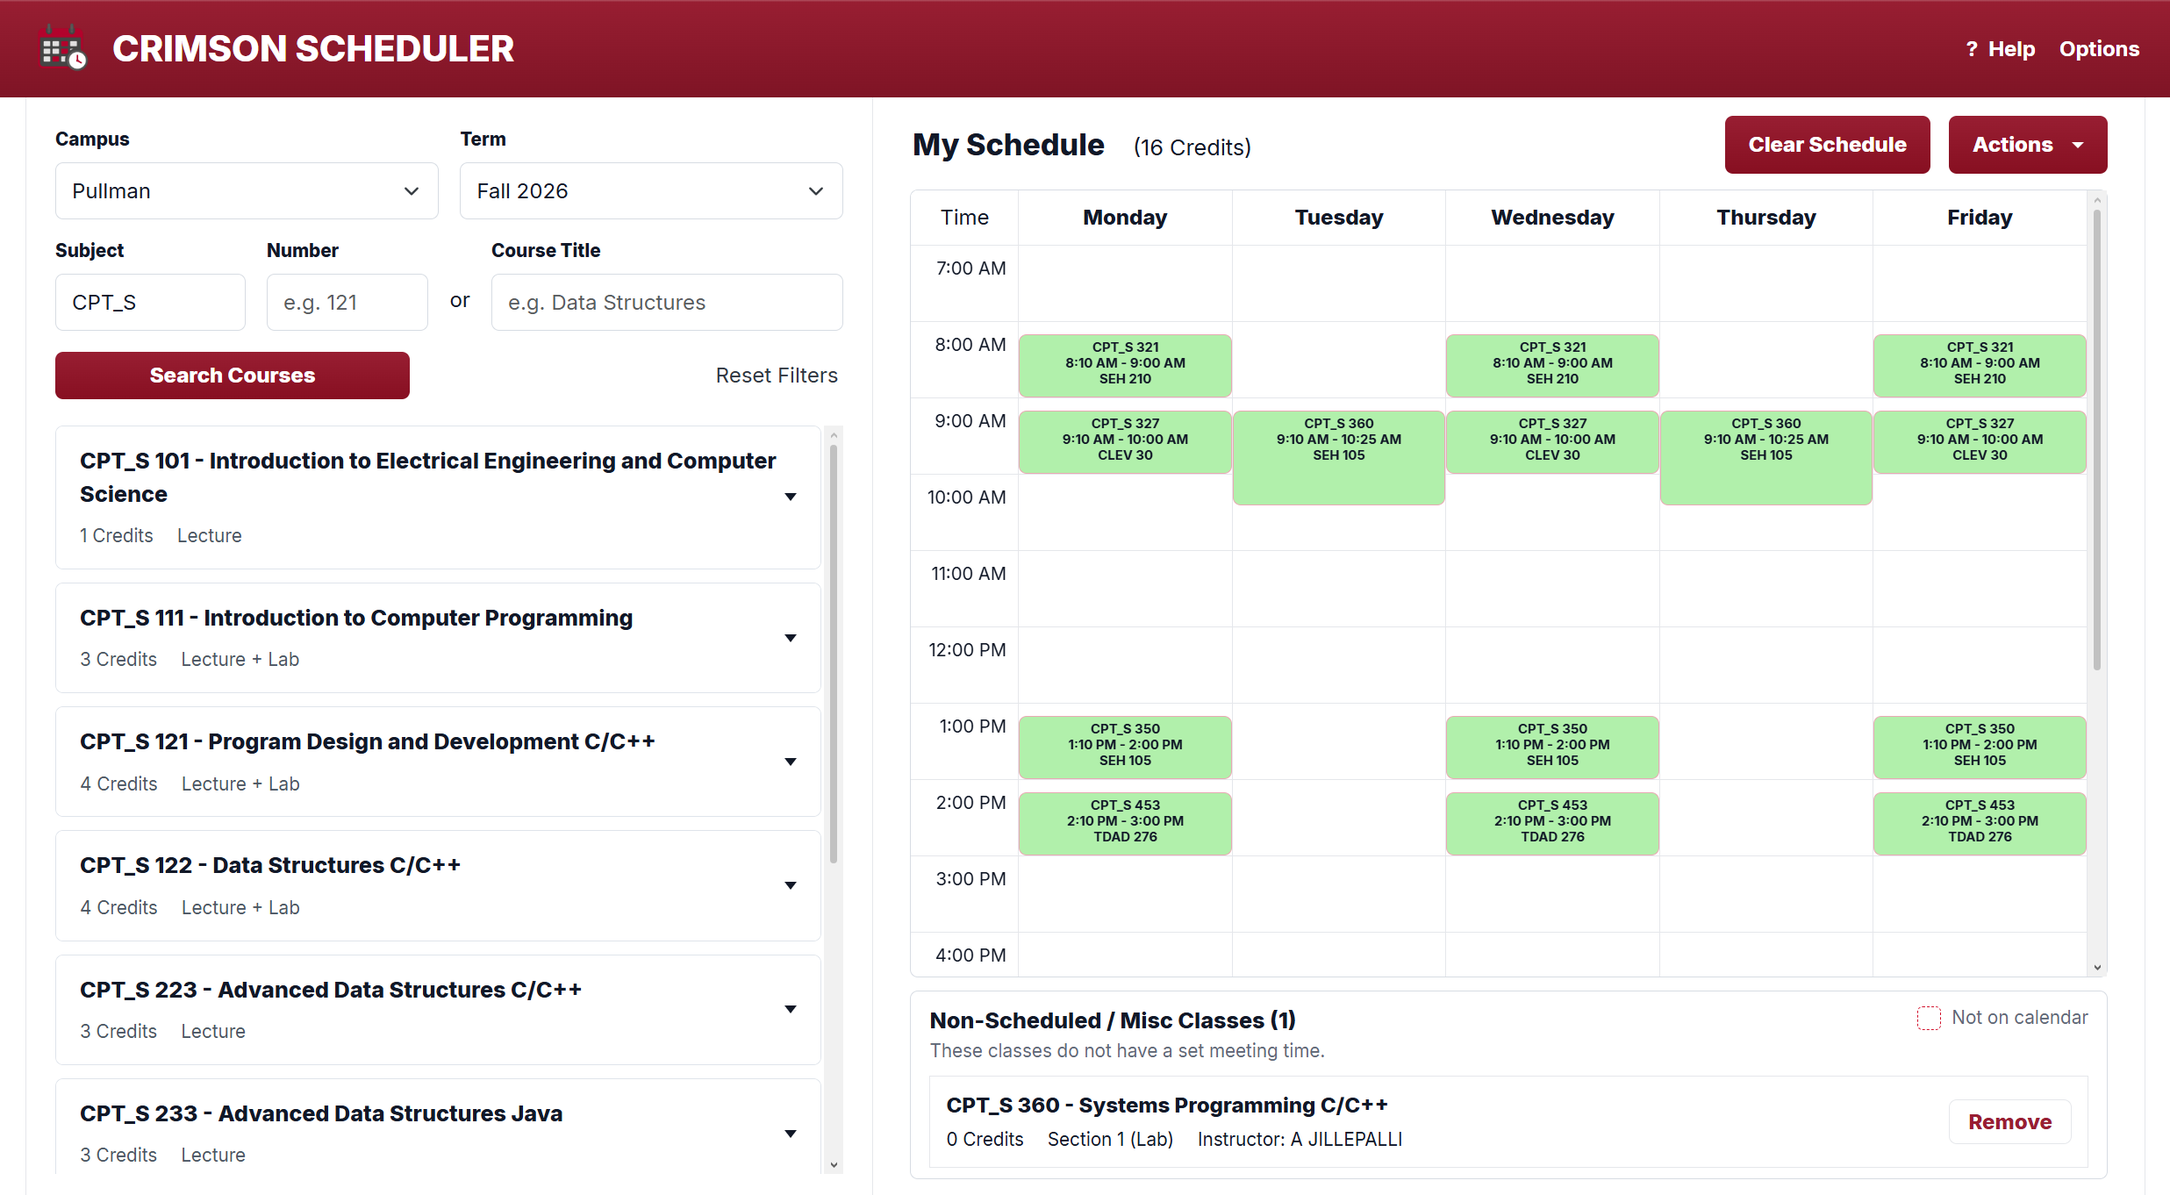
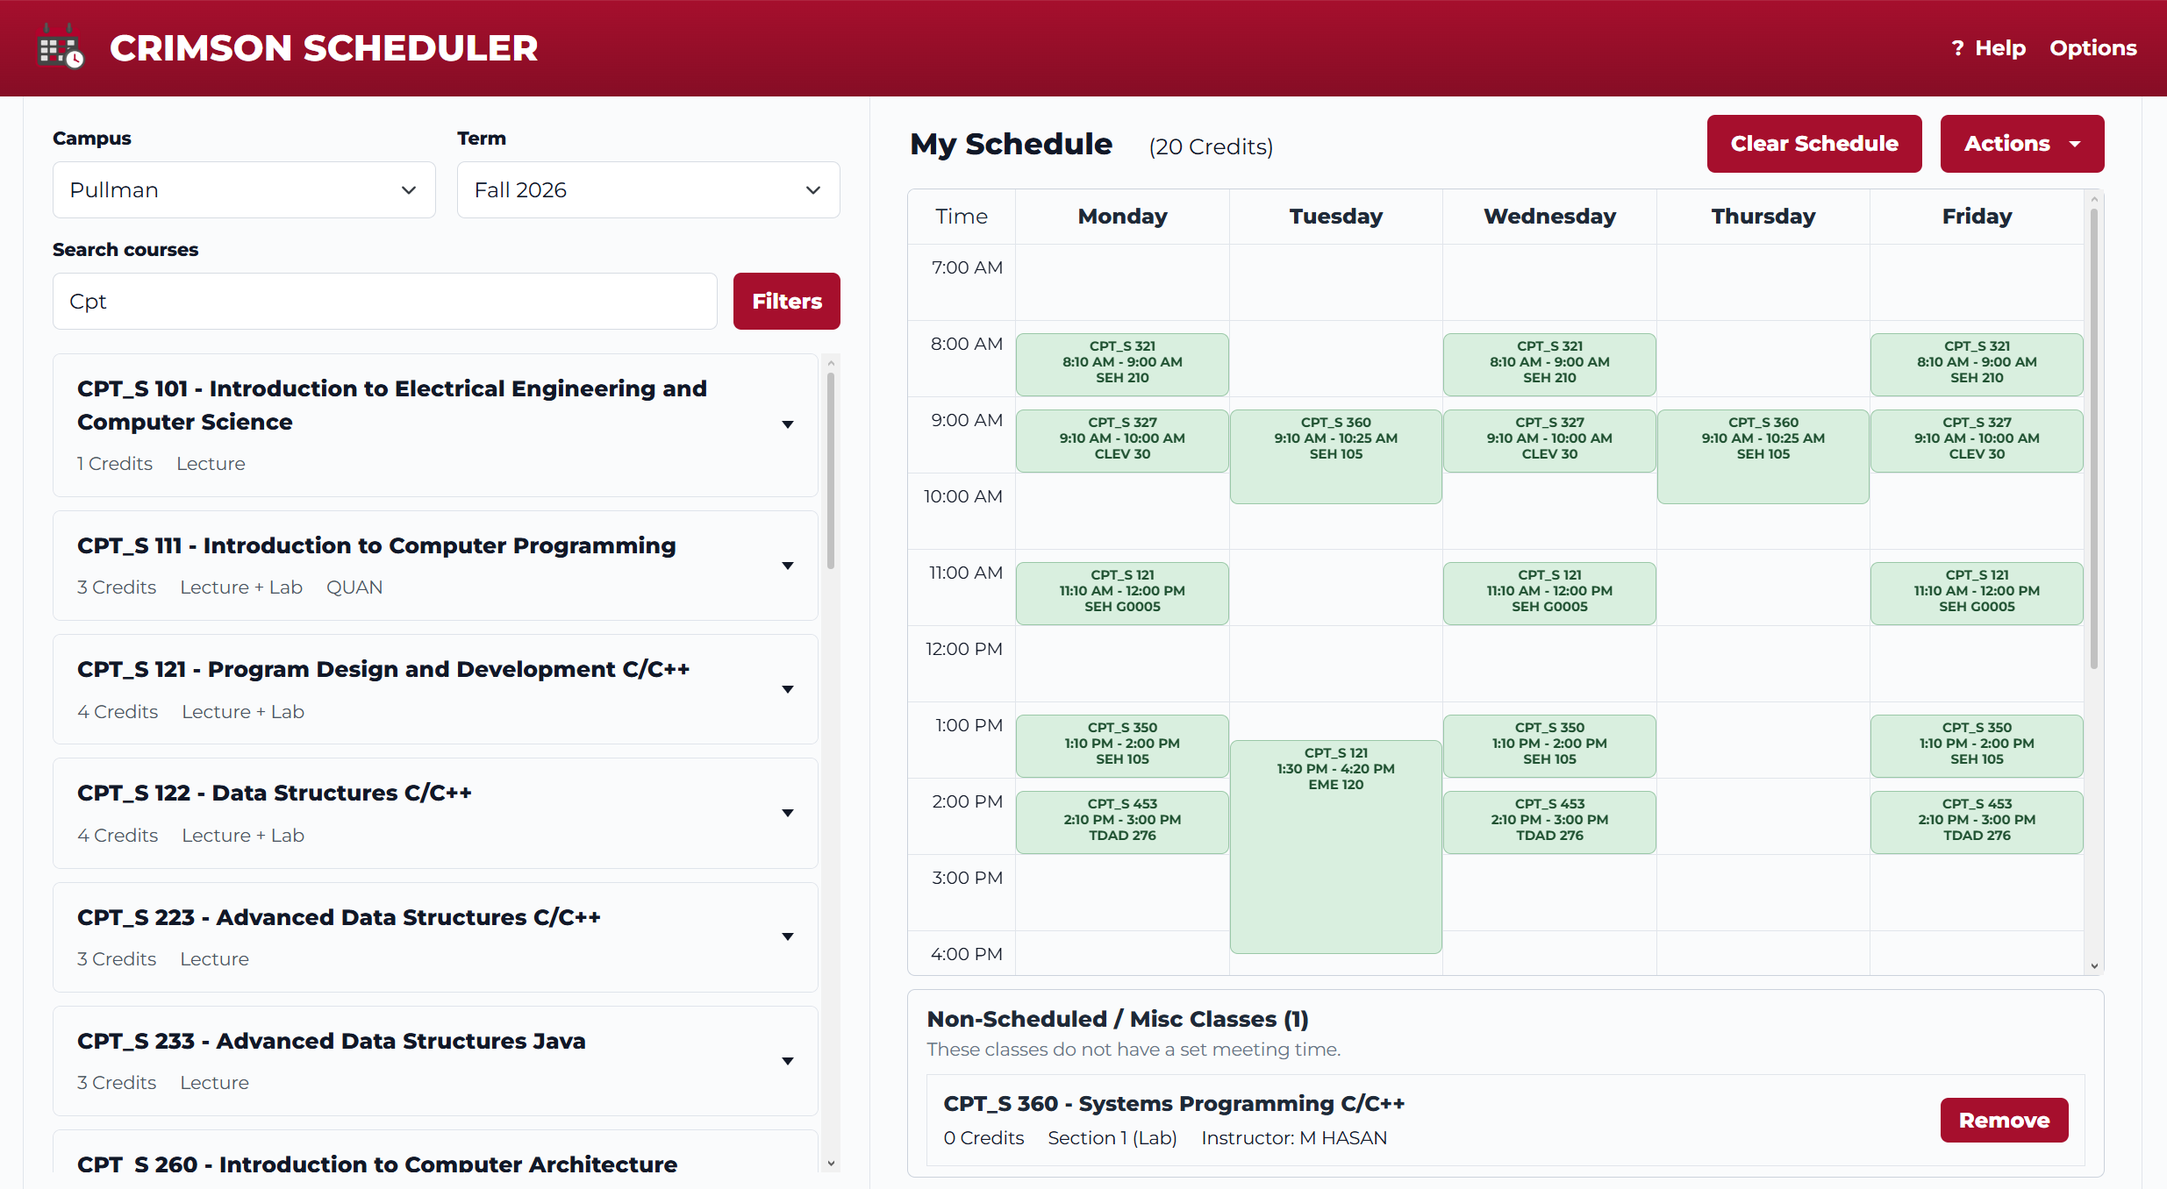
Update README.md

diff --git a/README.md b/README.md
@@ -1,40 +1,26 @@
 # Crimson Scheduler
 
-Crimson Scheduler is a WSU-focused schedule builder that helps students search course offerings and assemble a weekly class schedule. It retrieves publicly accessible course schedule data from WSU schedule API endpoints, stores course and section records in a Django database, and provides a responsive desktop/mobile calendar UI.
+Crimson Scheduler is a WSU-focused schedule builder that helps students search course offerings and create a weekly class schedule. It retrieves publicly accessible course schedule data from WSU's course API endpoints and caches them for users to query.
 
-### Why did I make this?
-
-I've found it to be somewhat annoying to plan out classes using the current scheduling systems WSU has in place. I've also seen that frustration echoed across other people on online forums as well. As such, I decided to make this webapp to make the process of planning out a semester of classes MUCH easier.
-
-##### What about other sites like Coursicle?
-
-Crimson Scheduler occupies a similar space to services such as Coursicle, but is specifically designed with WSU students in mind. The goal is to provide a straightforward, WSU-focused experience without requiring students to manually enter course information when it isn't available through a third-party service.
-
-Simply put, you can think of Crimson Scheduler as Coursicle just for us WSU students :\)
+Users can choose a campus and term, search the published course catalog, and select sections to assemble their course schedule.
 
 ![Crimson Scheduler desktop view](readme-images/DesktopView-CrimsonScheduler.png)
 
-## Current Features
+## Features
 
-- Search WSU courses by campus, term, subject, course number, or course title.
-- View course sections with credits, meeting days, times, location, instructor, and enrollment counts.
-- Choose lecture sections and required lab sections together when a course includes a lab.
-- Build a visual weekly schedule from selected sections.
-- Rename the current schedule.
-- Preview sections on the calendar before adding them.
-- Detect overlapping course times and highlight conflicts.
-- Track total selected credits.
-- Separate arranged, TBA, online, or otherwise unscheduled courses into a misc list.
-- Remove individual courses or clear the full schedule.
-- Export the schedule as a PNG image.
-- Generate and import Crimson Scheduler share codes.
-- Persist selected sections in a browser cookie for 30 days.
-- Persist display preferences and schedule name in local storage.
-- Customize the display with 24-hour time, hidden weekends, instructor labels, and section labels.
-- Use a mobile layout with separate Search and Schedule tabs.
-- View an in-app help modal with desktop and mobile guidance.
-- Access Privacy Policy, Terms of Use, and Contact pages from the footer.
-- Apply Redis-backed rate limiting to search and schedule API endpoints.
+- Search courses by subject, number, course code, or title
+- Load the available WSU campus/term catalog dynamically and cache a term's course data in the browser for the current visit.
+- Filter results by open seats, delivery type (in person, online, or arranged), and UCORE designation.
+- Review section number, meeting time, location, instructor, enrollment, and UCORE information before adding a class.
+- Choose lecture and lab sections together when a course requires a lab; removing either removes the paired selection.
+- Preview a section on the calendar while hovering or focusing it in the search results.
+- Render classes in a weekly calendar, flag overlapping meeting times, and provide direct removal controls for conflicts.
+- Keep arranged, TBA, online, and other unscheduled sections in a separate list instead of dropping them from the schedule.
+- Track total credits, rename the schedule, and clear the schedule when needed.
+- Export a calendar image (PNG) or a recurring `.ics` calendar file for compatible calendar apps.
+- Create and import compact share codes. Imported schedules are rebuilt from the latest published course data, so unavailable sections are reported instead of silently added.
+- Persist the schedule, name, display settings, and theme locally in the browser; no user account required.
+- Offer responsive desktop and mobile layouts, dark mode, 24-hour time, optional weekends, instructor/section labels, accessible filter controls, and in-app guidance.
 
 ## Mobile UI
 
@@ -42,87 +28,75 @@ Simply put, you can think of Crimson Scheduler as Coursicle just for us WSU stud
 | --- | --- |
 | ![Crimson Scheduler mobile schedule view](readme-images/MobileView-CrimsonScheduler1.png) | ![Crimson Scheduler mobile search view](readme-images/MobileView-CrimsonScheduler2.png) |
 
-## Tech Stack
+## How it works
 
-- Python
-- Django 5.2
-- PostgreSQL to cache course information
-- Redis for cache/rate-limiting support
-- WSU schedule API endpoints for data collection
-- HTMX for course search partial updates
-- Bootstrap for UI components
-- html2canvas for PNG schedule export
-- JavaScript for schedule rendering, conflict highlighting, share codes, cookies, local storage, export, and mobile navigation
+The deployed application is a Django UI backed by a versioned, static course-data API hosted from the repository's `crimson-data` GitHub Pages branch. The browser fetches a catalog first, then retrieves only the selected campus/term JSON file. Search and filtering run client-side, which keeps normal course browsing off the Django database and avoids repeated requests to WSU while a user types.
 
-## Project Structure
+Course data originates from WSU's public schedule endpoints. The scheduled GitHub Actions workflow regenerates the static catalog hourly and publishes it to the data branch. Section availability and other catalog details can therefore lag behind the official registration systems.
+
+The repository still includes Django models and session-backed schedule endpoints from the earlier server-backed implementation. They are retained and covered by tests, but the primary schedule-builder flow is browser-first and uses the static catalog.
+
+## Tech stack
+
+- Python 3.12 and Django 5.2
+- Vanilla JavaScript modules bundled with Vite
+- Bootstrap, HTMX, and html2canvas for the interface and image export
+- `ical-generator` for `.ics` exports
+- Static JSON course catalog published through GitHub Pages
+- Redis token-bucket rate limiting for Django's legacy schedule API endpoints
+- PostgreSQL for Django's optional/legacy data models
+
+## Project structure
 
 ```text
 .
-|-- dataCollection/              # WSU API data loading and transformation helpers
-|   |-- classHandler/            # Plain Python data containers for imported WSU data
+|-- .github/workflows/           # CI, CodeQL, and hourly course-data publication
+|-- dataCollection/              # WSU API importer and JSON catalog generator
 |   `-- dataHandler/
-|       |-- data.py              # Current WSU API collection path
-|       |-- storage.py           # Upserts collected data into Django models
-|       `-- scraper.py           # Legacy scraper code; currently unused
-|-- readme-images/               # README screenshots
-|-- web/                         # Django project
+|       |-- data.py              # Requests/transforms WSU schedule data
+|       |-- generate_json.py     # Builds the static API under _generated_site/
+|       `-- json_storage.py      # Serializes catalog and campus/term JSON files
+|-- readme-images/               # README screenshots (maintained manually)
+|-- tests/                       # Vitest unit tests for browser logic
+|-- web/
 |   |-- classes/
-|   |   |-- models.py            # Campus, semester, course, section, schedule models
-|   |   |-- rate_limit.py        # Redis token-bucket rate limiting
-|   |   |-- redis_scripts/       # Lua script used by the rate limiter
-|   |   |-- static/              # CSS, JS, icons, and help images
-|   |   |-- templates/           # Schedule builder, legal pages, contact page
+|   |   |-- static/js/           # Course API client and schedule UI modules
+|   |   |-- static/css/          # Responsive and theme styles
+|   |   |-- templates/classes/   # Builder, help, legal, and contact pages
 |   |   |-- urls.py              # App routes
-|   |   `-- views.py             # Search, schedule, legal, and API views
+|   |   `-- views.py             # Page views and catalog bootstrap
 |   |-- manage.py
-|   `-- web/                     # Django settings and root URL config
-|-- LICENSE.md
-|-- main.py                      # Imports WSU schedule data into the configured DB
-|-- requirements.txt             # Python dependencies for local setup
+|   `-- web/                     # Django settings and root URL configuration
+|-- package.json                 # Vite, ESLint, and Vitest commands
+|-- pyproject.toml               # Python project and Ruff configuration
+|-- requirements*.txt            # Runtime and development Python dependencies
+|-- vercel.json                  # Production build command
 `-- README.md
 ```
 
-## Local Setup
+## Local development
 
-Create and activate a virtual environment:
+### Prerequisites
+
+- Python 3.12
+- Node.js 20 or newer (Node 22 is used in CI)
+
+Create and activate a virtual environment, then install Python dependencies:
 
 ```powershell
 python -m venv venv
 .\venv\Scripts\Activate.ps1
+python -m pip install -r requirements-dev.txt
 ```
 
-Install dependencies:
+Install JavaScript dependencies and build the browser bundle:
 
 ```powershell
-pip install -r requirements.txt
+npm ci
+npm run build
 ```
 
-Create a `.env` file in the repo root. For PostgreSQL, either provide a single `DATABASE_URL`:
-
-```env
-DJANGO_SECRET_KEY=change-this-for-local-dev
-DJANGO_DEBUG=True
-DJANGO_ALLOWED_HOSTS=localhost,127.0.0.1
-DATABASE_URL=postgresql://user:password@localhost:5432/crimson_scheduler
-REDIS_URL=redis://127.0.0.1:6379/0
-```
-
-Or provide individual database settings:
-
-```env
-DJANGO_SECRET_KEY=change-this-for-local-dev
-DJANGO_DEBUG=True
-DJANGO_ALLOWED_HOSTS=localhost,127.0.0.1
-DB_ENGINE=django.db.backends.postgresql
-DB_NAME=crimson_scheduler
-DB_USER=your_database_user
-DB_PWD=your_database_password
-DB_HOST=localhost
-DB_PORT=5432
-REDIS_URL=redis://127.0.0.1:6379/0
-```
-
-For SQLite development:
+Create a `.env` file in the repository root. A SQLite configuration is enough for local development because the primary UI reads the published static catalog rather than a local course database:
 
 ```env
 DJANGO_SECRET_KEY=change-this-for-local-dev
@@ -130,102 +104,84 @@ DJANGO_DEBUG=True
 DJANGO_ALLOWED_HOSTS=localhost,127.0.0.1
 DB_ENGINE=django.db.backends.sqlite3
 DB_NAME=db.sqlite3
-DB_USER=
-DB_PWD=
-DB_HOST=
-DB_PORT=
-REDIS_URL=redis://127.0.0.1:6379/0
 ```
 
-Run migrations:
+Apply migrations and start Django:
 
 ```powershell
 cd web
 python manage.py migrate
-```
-
-Load WSU schedule data:
-
-```powershell
-cd ..
-python main.py
-```
-
-Start the development server:
-
-```powershell
-cd web
 python manage.py runserver
 ```
 
-Then open `http://127.0.0.1:8000/`.
+Open `http://127.0.0.1:8000/`. The page will request the current catalog from the published API, so an internet connection is required for course search.
 
-## Configuration Notes
+### Optional services and database configuration
 
-- `DJANGO_SECRET_KEY` controls Django's secret key.
-- `DJANGO_DEBUG` defaults to `True`.
-- `DJANGO_ALLOWED_HOSTS` is a comma-separated host list.
-- `DATABASE_URL` takes priority over the individual `DB_*` settings.
-- `REDIS_URL` defaults to `redis://127.0.0.1:6379/0`.
-- Rate limiting can be tuned with `RATE_LIMIT_MAX_TOKENS`, `RATE_LIMIT_REFILL_RATE`, `RATE_LIMIT_TTL_SECONDS`, `RATE_LIMIT_TRUST_X_FORWARDED_FOR`, and `RATE_LIMIT_FAIL_OPEN`.
-- With the default `RATE_LIMIT_FAIL_OPEN=True`, Redis outages should not block normal local development.
+Redis is only needed when exercising the rate-limited legacy JSON endpoints. Its defaults are `redis://127.0.0.1:6379/0` and fail-open behavior, which means a local Redis outage does not block normal development.
 
-## Data Collection
+For PostgreSQL, set `DATABASE_URL` or the individual `DB_ENGINE`, `DB_NAME`, `DB_USER`, `DB_PWD`, `DB_HOST`, and `DB_PORT` variables. `DATABASE_URL` takes precedence. Set `REDIS_URL` and, if needed, tune `RATE_LIMIT_MAX_TOKENS`, `RATE_LIMIT_REFILL_RATE`, `RATE_LIMIT_TTL_SECONDS`, `RATE_LIMIT_TRUST_X_FORWARDED_FOR`, and `RATE_LIMIT_FAIL_OPEN`.
 
-The original scraper approach has been replaced with direct WSU API calls. `main.py` initializes Django, requests campus, term, subject, course, and section data from WSU schedule endpoints, and upserts the results into the configured database.
+### Refreshing the static course API locally
 
-The importer currently stores:
+The production catalog is generated by GitHub Actions. To generate the same static API locally:
 
-- Campuses
-- Semesters
-- Subjects/topics
-- Courses
-- Sections
-- Lecture/lab metadata
-- Enrollment totals
-- Meeting days, times, locations, and instructors
+```powershell
+python -m dataCollection.dataHandler.generate_json
+```
 
-WSU schedule data is cached locally in the configured database so normal user searches do not require repeated requests to WSU endpoints. The importer can be run separately whenever the cached dataset needs to be refreshed.
+This writes `_generated_site/api/v1/catalog.json` plus one JSON file per campus/term. The script requests WSU's public schedule API and may take time depending on the number of active terms and subjects. It does not update the local Django database.
 
-## How Schedule Data Is Stored
+The older database importer remains available as `python main.py`; it initializes Django and imports the WSU data into the configured database. It is useful for maintaining the legacy endpoints, not required for the browser-based builder.
 
-The visible schedule builder currently stores selected section data in the user's browser with a 30-day cookie. Display options and the schedule name are stored in local storage.
+## Quality checks
 
-Share codes store the schedule name and selected section IDs. When importing a share code, the app calls `/api/sections-by-ids/` to rebuild fresh section data from the database. The app also includes Django models and endpoints for session-backed schedules, but the primary UI flow is currently browser-first.
+```powershell
+npm run lint
+npm test
+python -m ruff check .
+python -m ruff format --check .
+cd web
+python manage.py check
+python manage.py test
+```
 
-## User-Facing Pages
+GitHub Actions runs Python and JavaScript linting, Django checks/tests, Vitest, CodeQL analysis, and the hourly data-publication workflow.
 
-- `/` - schedule builder
-- `/privacy-policy/` - privacy policy
-- `/terms-of-use/` - terms of use
-- `/contact/` - contact and bug-reporting guidance
-- `/admin/` - Django admin
+## Routes
 
-## Future Work
+| Route | Purpose |
+| --- | --- |
+| `/` | Schedule builder |
+| `/privacy-policy/` | Privacy policy |
+| `/terms-of-service/` | Terms of service |
+| `/contact/` | Contact and feedback guidance |
+| `/admin/` | Django administration |
+| `/api/schedule-data/` | Legacy session schedule data |
+| `/api/sections-by-ids/` | Legacy section lookup endpoint |
 
-The core scheduling experience is usable. Future work is focused on deployment, richer course metadata, and stretch goals based on user feedback.
+## Privacy and data notes
 
-- [ ] Deploy Crimson Scheduler to a public domain for broader access.
-- [x] Improve export options beyond JSON.
-- [x] Add schedule share/import codes.
-- [ ] Explore professor ratings by linking instructor names to their RMP profiles where available, or by developing a user-submitted rating system.
-- [ ] Allow the deployed app's cached course data to update frequently enough for useful seat-count visibility.
-- [ ] Add prerequisite or course-description metadata if reliable WSU data becomes available, or construct a dependency graph that helps visualize how courses relate to each other.
-- [ ] Implement daily path generation to visualize a potential walking route between classes based on their locations.
+Schedules, display preferences, schedule names, and theme selection are stored in the browser's local storage. A legacy cookie reader is retained for older schedules, but the current builder persists new schedules in local storage. Share codes encode a schedule name and campus/term section identifiers; they are not stored on the server.
 
-## Disclaimers
+The site uses Vercel Web Analytics for aggregate traffic information. Consult the in-app [Privacy Policy](/privacy-policy/) for the current details.
 
-Crimson Scheduler is an independent, third-party project and is not affiliated with, endorsed by, sponsored by, or otherwise officially associated with Washington State University (WSU).
+## Future work
 
-Crimson Scheduler is a planning tool, not a registration system. Course availability, meeting times, instructors, locations, and other information should be verified through official WSU resources before registration.
+- [ ] Deploy and maintain the public production experience.
+- [x] Add image and calendar export.
+- [x] Add share/import codes.
+- [x] Add client-side availability, delivery, and UCORE filters.
+- [ ] Explore reliable instructor-rating links or a user-submitted rating system.
+- [ ] Improve visibility into how fresh enrollment counts are after each catalog refresh.
+- [ ] Add course descriptions, prerequisites, and degree-planning relationships when reliable source data is available.
+- [ ] Visualize walking routes between class locations.
 
-Course information may be delayed, incomplete, or outdated between data refreshes.
+## Disclaimer
 
-Crimson Scheduler does not currently require user accounts. The app stores selected course sections and display preferences in browser storage to restore schedules between visits. No PII is intentionally collected by the application.
+Crimson Scheduler is an independent third-party project. It is not affiliated with, endorsed by, sponsored by, or otherwise officially associated with Washington State University.
 
-## AI Disclosure
-
-The majority of this README.md was written with the guidance of AI, but ultimately reviewed by me (a human, I swear). If there are any questions related to the project, please feel free to reach out to me using the links in my profile. Thanks!
+It is a planning tool, not a registration system. Always verify course availability, meeting times, instructors, locations, prerequisites, and registration requirements through official WSU resources before enrolling.
 
 ## License
 
